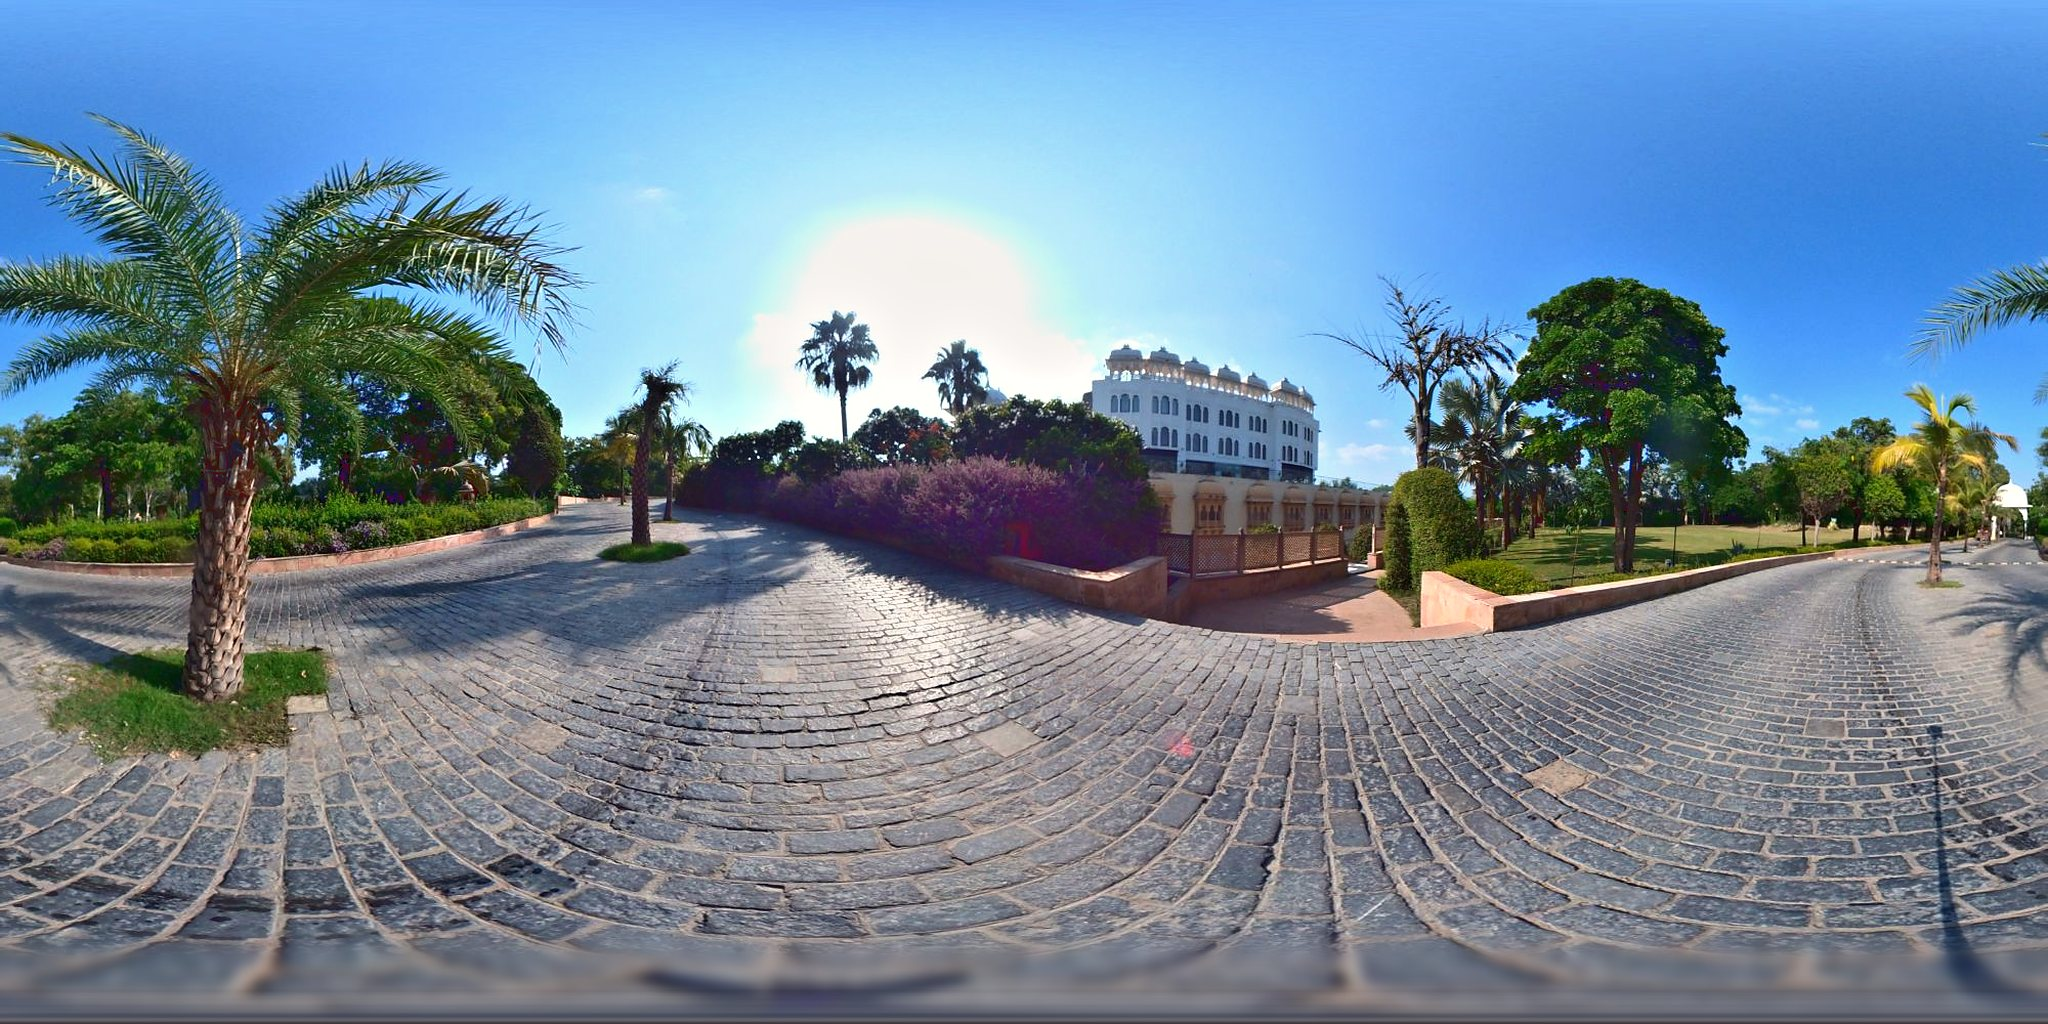
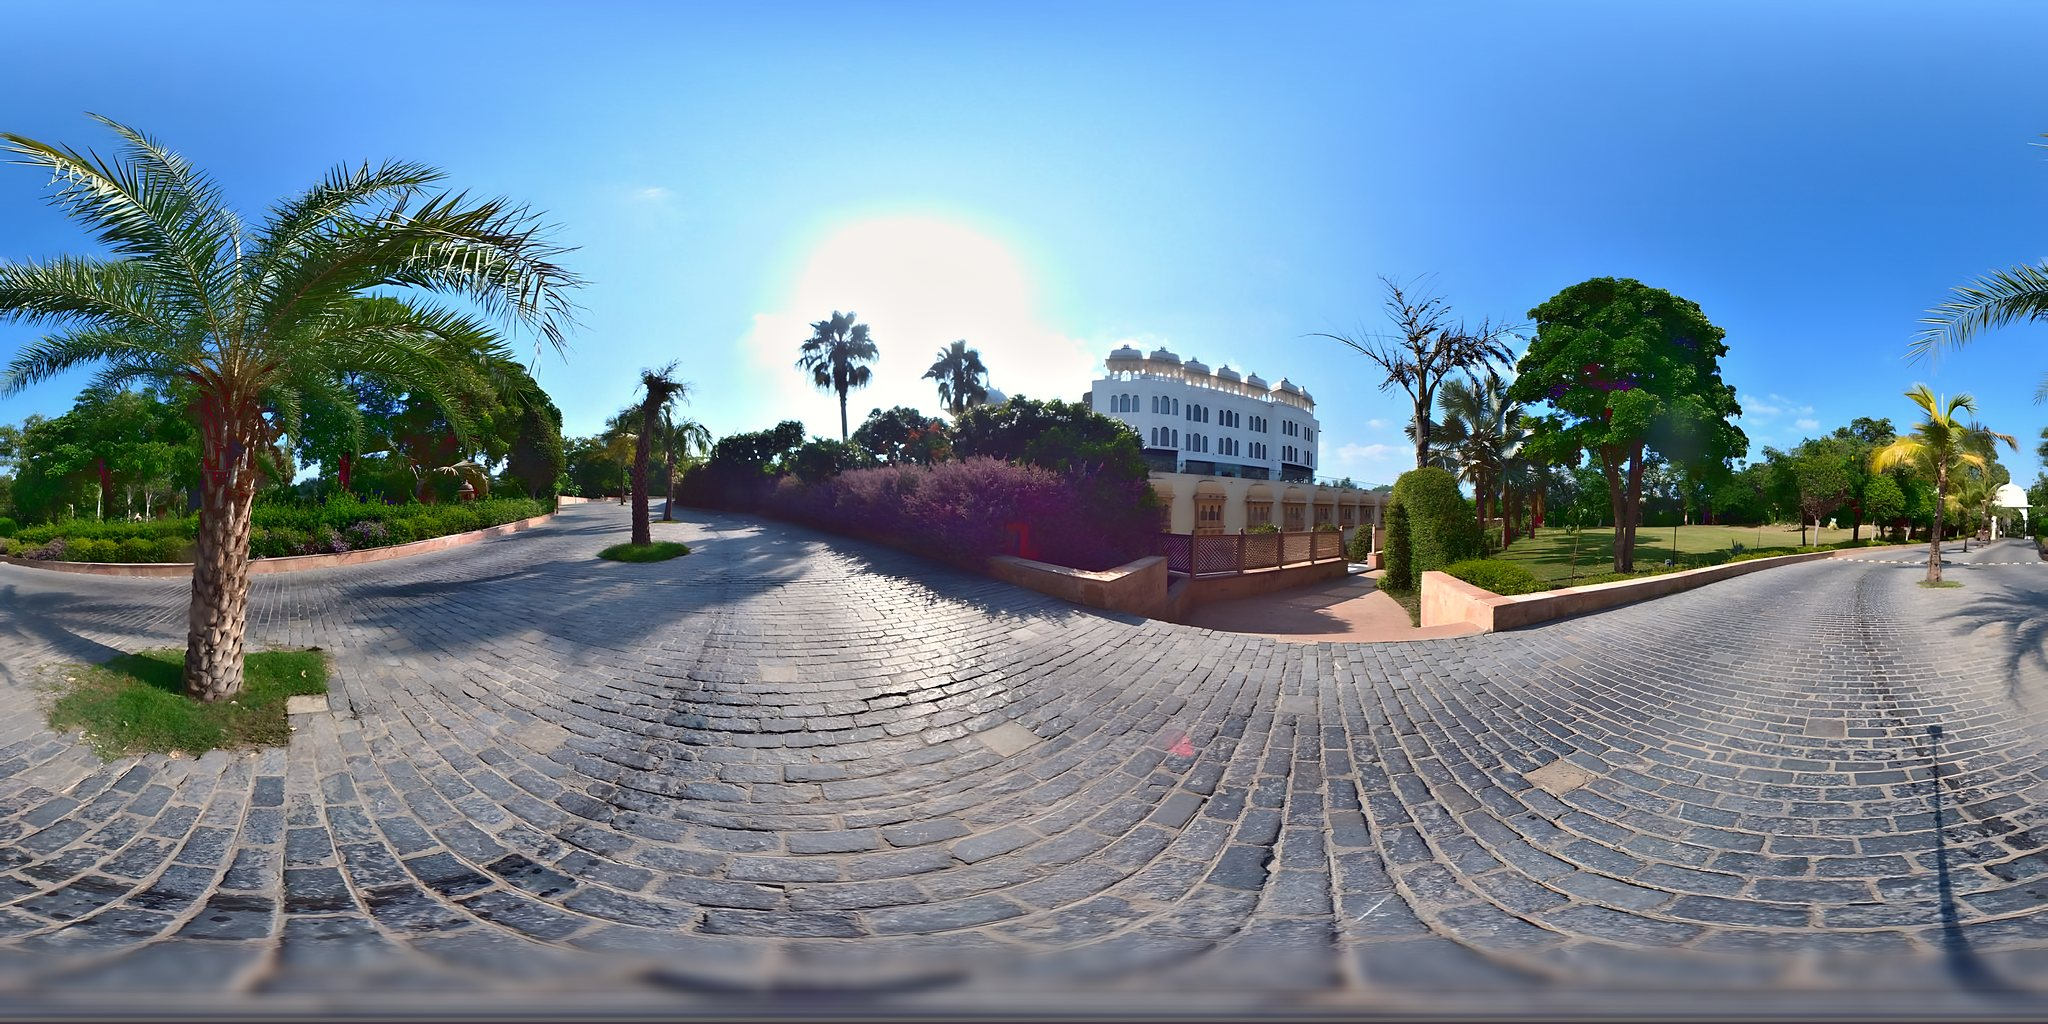
Regenerate all panoramas from AI-upscaled sources with 8K masters
All five scenes now come from Real-ESRGAN 4x reconstructions (8000x4000)
graded and exported at 8K / 4K / 2K. Bright highlights lean on the plain
upscale to avoid super-resolution speckles in chandeliers and sun glare.

Claude-Session: https://claude.ai/code/session_013Qi8opYaewJapiiCXmoEyv

diff --git a/tools/enhance.py b/tools/enhance.py
@@ -137,8 +137,13 @@ def load_source(name):
         return np.asarray(orig, dtype=np.float32) / 255.0
     sr = np.asarray(Image.open(sr_path).convert("RGB"), dtype=np.float32) / 255.0
     lz = np.asarray(orig.resize((sr.shape[1], sr.shape[0]), Image.LANCZOS), dtype=np.float32) / 255.0
-    rgb = sr * 0.82 + lz * 0.18
-    del sr, lz
+    # Super-resolution invents dark speckles inside blown highlights
+    # (chandelier crystals, sun); lean on the plain upscale there.
+    lum = luminance(lz)
+    hot = np.clip((lum - 0.62) / 0.22, 0, 1)[..., None]
+    w_lz = 0.18 + 0.62 * hot
+    rgb = sr * (1 - w_lz) + lz * w_lz
+    del sr, lz, lum, hot, w_lz
     rng = np.random.default_rng(7)
     grain = rng.normal(0, 1.1 / 255, rgb.shape[:2]).astype(np.float32)
     rgb += grain[..., None]
